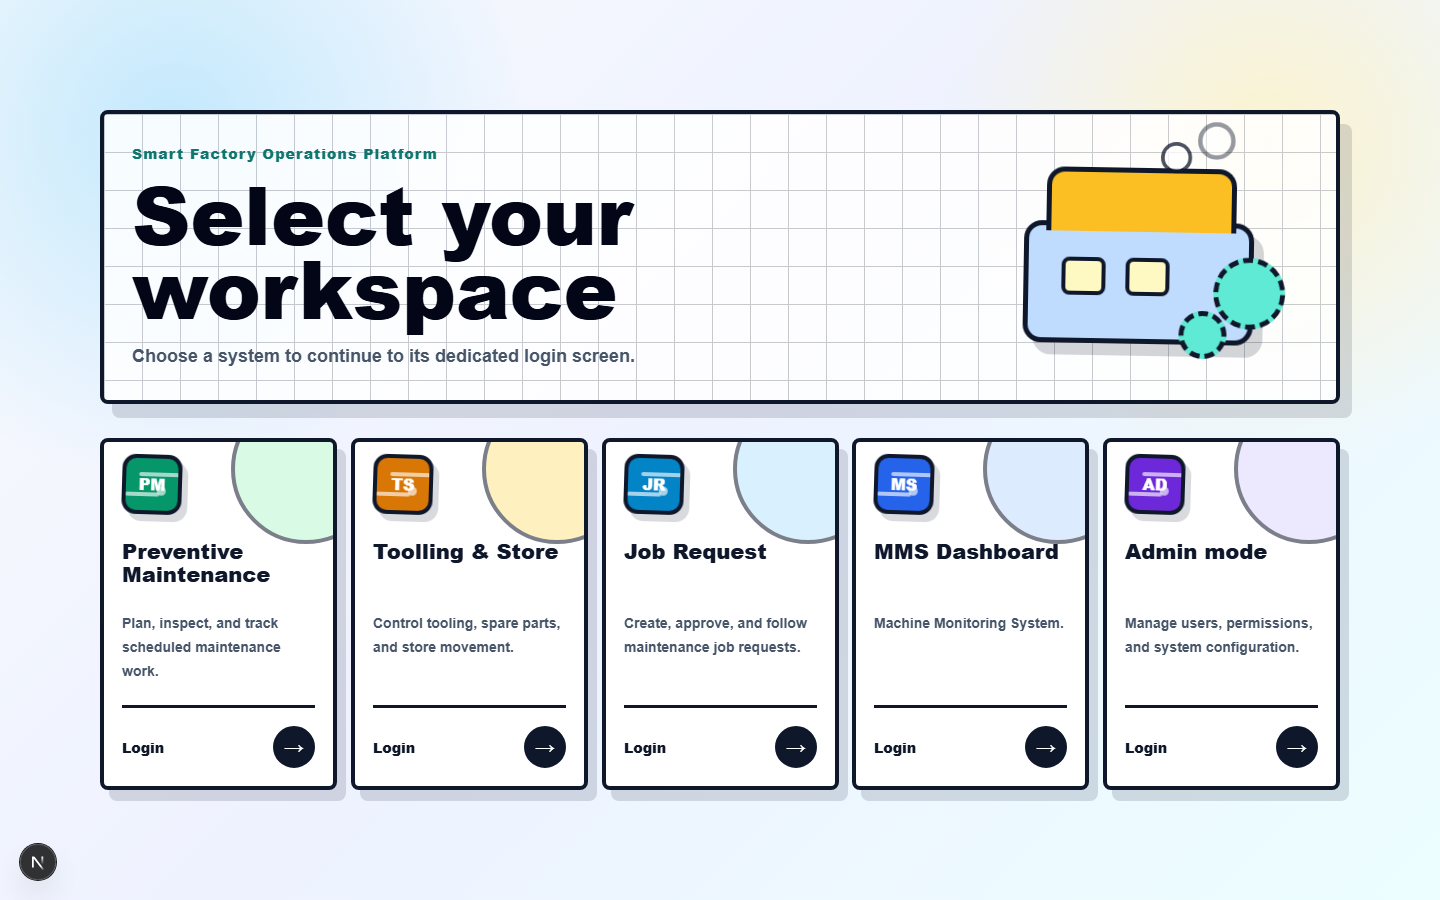
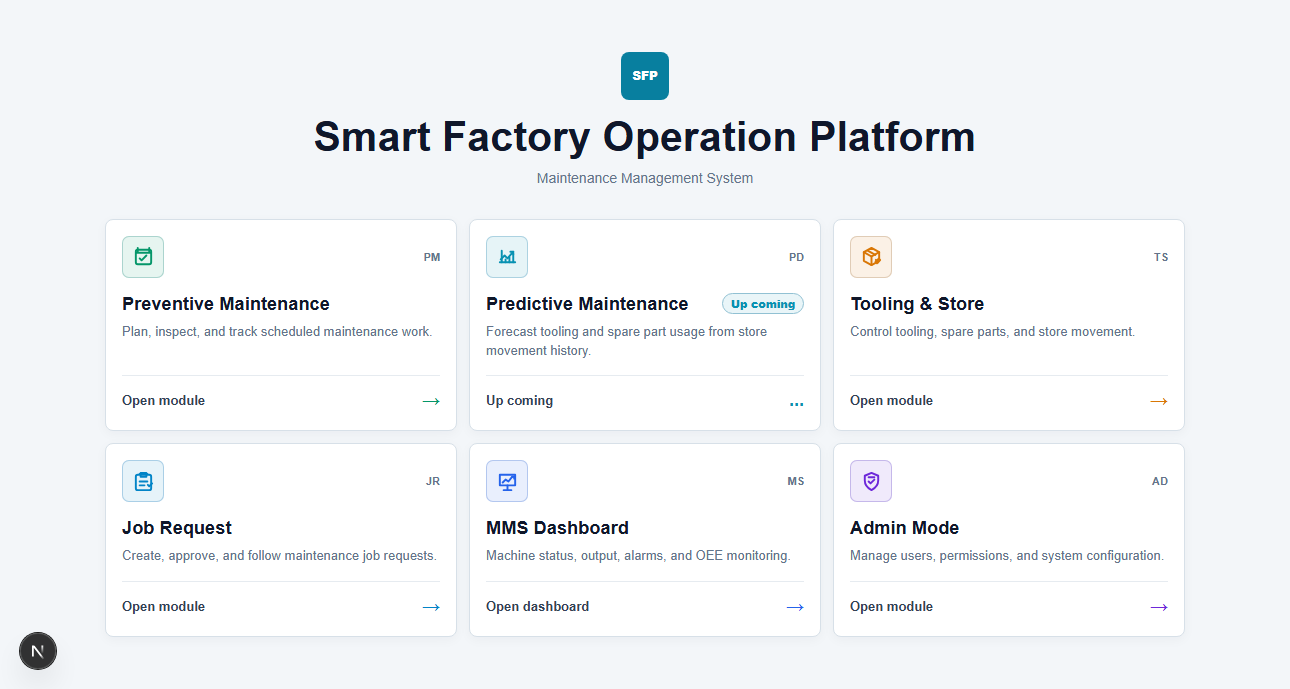
Update smart factory operation platform benefits

Changed region(s): [[0.0, 0.0, 0.9612, 0.9144], [0.0, 0.9144, 0.062, 0.9753]]

diff --git a/components/modals/PredictiveMaintenanceModal.tsx b/components/modals/PredictiveMaintenanceModal.tsx
@@ -117,8 +117,14 @@ const platformModules = [
     icon: ClipboardCheck,
   },
   {
+    title: "Predictive Maintenance",
+    detail: "Gateway entry for Predictive Tooling Usage, forecasting spare part demand from store history.",
+    tab: "Toolling & Store",
+    icon: Activity,
+  },
+  {
     title: "Toolling & Store",
-    detail: "Stock, tools, borrow/return, overdue, calibration, and movement history.",
+    detail: "Stock, tools, borrow/return, calibration, movement history, and Predictive Tooling Usage.",
     tab: "Toolling & Store",
     icon: Store,
   },
@@ -144,7 +150,7 @@ const overallImages = [
   {
     src: "/projects/smart-factory-operations/gateway-workspace-selector.png",
     title: "System Gateway",
-    caption: "Main entry point that separates PM, Toolling & Store, Job Request, MMS Dashboard, and Admin mode.",
+    caption: "Main entry point that separates PM, Predictive Maintenance, Toolling & Store, Job Request, MMS Dashboard, and Admin mode.",
   },
 ];
 
@@ -417,7 +423,7 @@ const mmsBenefits = [
   { label: "Before", value: "Manual checking/reporting: 1.5 min/machine = 150 min/day" },
   { label: "After", value: "Dashboard scan/filter/export: 0.5 min/machine = 50 min/day" },
   { label: "Saving", value: "1 min/machine x 100 machines = 100 min/day" },
-  { label: "Cost", value: "100 / 60 x 102.27 = 170 THB/day" },
+  { label: "Cost", value: "100 / 60 x 102.27 = 170.45 THB/day" },
   { label: "Month / Year", value: "3,750 THB/month | 45,000 THB/year" },
 ];
 
@@ -509,7 +515,7 @@ const toolingBenefits = [
   { label: "Before", value: "Manual stock check: 10 min/item" },
   { label: "After", value: "System lookup and transaction view: 2 min/item" },
   { label: "Saving", value: "8 items/day x 8 min saved = 64 min/day" },
-  { label: "Cost", value: "64 / 60 x 102.27 = 109 THB/day" },
+  { label: "Cost", value: "64 / 60 x 102.27 = 109.09 THB/day" },
   { label: "Month / Year", value: "2,400 THB/month | 28,800 THB/year" },
 ];
 
@@ -522,9 +528,37 @@ const toolingFeatureFlow = [
   { label: "Report / Movement View", icon: BarChart3 },
 ];
 
+const predictiveToolingFlow = [
+  { label: "Stock Balance", icon: Store },
+  { label: "Stock Out / PM Part Usage", icon: FileSpreadsheet },
+  { label: "Upcoming PM Demand", icon: CalendarDays },
+  { label: "Usage Forecast", icon: Activity },
+  { label: "Reorder Suggestion", icon: BarChart3 },
+];
+
+const predictiveToolingCards = [
+  {
+    label: "Data Sources",
+    value: "Stock balance, stock-out history, PM part usage, and upcoming PM plans",
+  },
+  {
+    label: "Shortage Risk",
+    value: "Flags high or critical items before Maintenance waits for missing parts",
+  },
+  {
+    label: "Reorder Timing",
+    value: "Shows stockout ETA, reorder ETA, and lead-time urgency",
+  },
+  {
+    label: "Suggested Buy Qty",
+    value: "Calculates order quantity from current stock, target stock, and forecast demand",
+  },
+];
+
 const toolingConnectionFlow = [
   { label: "Admin Master Data", icon: Settings },
   { label: "Tooling Stock", icon: Store },
+  { label: "Predictive Tooling Usage", icon: Activity },
   { label: "Job Request Repair Need", icon: Wrench },
   { label: "PM Tool / Spare Part Check", icon: ClipboardCheck },
   { label: "History and Reports", icon: Clock },
@@ -608,8 +642,8 @@ const pmBenefits = [
   { label: "Before", value: "35 min/PM record for checklist, manual record, history lookup, and report prep" },
   { label: "After", value: "25 min/PM record with digital checklist and searchable history" },
   { label: "Saving", value: "7.5 records/week x 10 min saved / 5 days = 15 min/day" },
-  { label: "Cost", value: "15 / 60 x 102.27 = 26 THB/day" },
-  { label: "Month / Year", value: "563 THB/month | 6,750 THB/year" },
+  { label: "Cost", value: "15 / 60 x 102.27 = 25.57 THB/day" },
+  { label: "Month / Year", value: "562.50 THB/month | 6,750 THB/year" },
 ];
 
 const pmCapabilityItems = [
@@ -717,8 +751,8 @@ const jobBenefits = [
   { label: "History lookup", value: "5 cases/day x 17 min saved = 85 min/day" },
   { label: "Confirm / check", value: "75 cases/day x 40% x 8 min saved = 240 min/day" },
   { label: "Total", value: "900 + 85 + 240 = 1,225 min/day" },
-  { label: "Cost", value: "1,225 / 60 x 102.27 = 2,088 THB/day" },
-  { label: "Month / Year", value: "45,938 THB/month | 551,250 THB/year" },
+  { label: "Cost", value: "1,225 / 60 x 102.27 = 2,088.07 THB/day" },
+  { label: "Month / Year", value: "45,937.50 THB/month | 551,250 THB/year" },
 ];
 
 const jobSoundItems = [
@@ -1478,7 +1512,7 @@ export default function PredictiveMaintenanceModal({ project, onClose }: Props) 
                     Highlight Project
                   </p>
                   <h2 className="mt-2 max-w-xl text-2xl font-black leading-tight text-white sm:text-4xl lg:text-5xl">
-                    Smart Factory Operations Platform
+                    Smart Factory Operation Platform
                   </h2>
                   <p className="mt-3 max-w-xl text-xs font-bold leading-relaxed text-slate-300 sm:text-sm">
                     Connects machine data, repair workflow, QC confirmation, PM, tooling, and admin master data into
@@ -1551,11 +1585,11 @@ export default function PredictiveMaintenanceModal({ project, onClose }: Props) 
                       <div>
                         <p className="mb-3 text-xs font-black uppercase tracking-[0.18em] text-cyan-300">Over All</p>
                         <h3 className="text-3xl font-black leading-tight">
-                          Smart Factory Operations Platform
+                          Smart Factory Operation Platform
                         </h3>
                         <p className="mt-4 text-sm leading-relaxed text-slate-300">
-                          A real factory operations system that connects machine data, repair workflow, QC confirmation,
-                          preventive maintenance, tooling inventory, and admin master data into one traceable real-time
+                          A real maintenance management system that connects machine data, repair workflow, QC confirmation,
+                          preventive maintenance, predictive tooling usage, tooling inventory, and admin master data into one traceable real-time
                           platform for a 100-machine operation scope. Machine-side data, shared status, shared history,
                           MSSQL Server, backend APIs, and Socket.IO updates help teams work from the same source of truth.
                         </p>
@@ -1701,6 +1735,39 @@ export default function PredictiveMaintenanceModal({ project, onClose }: Props) 
                     </div>
                   </section>
 
+                  <section className="rounded-2xl border border-cyan-200 bg-white p-5 shadow-sm dark:border-cyan-900/50 dark:bg-slate-900">
+                    <div className="grid gap-5 lg:grid-cols-[0.85fr_1.15fr] lg:items-start">
+                      <div>
+                        <p className="text-xs font-black uppercase tracking-[0.18em] text-cyan-500">
+                          Tooling Usage Forecast
+                        </p>
+                        <h3 className="mt-1 text-lg font-black text-slate-950 dark:text-white">
+                          Predictive Tooling Usage inside Toolling & Store
+                        </h3>
+                        <p className="mt-3 text-sm font-semibold leading-relaxed text-slate-700 dark:text-slate-300">
+                          Toolling & Store also uses stock balance, stock-out history, PM part usage, and upcoming PM
+                          plans to forecast shortage risk, reorder timing, 30-day issue quantity, and suggested buy
+                          quantity before Maintenance waits for missing parts.
+                        </p>
+                      </div>
+                      <div className="grid gap-3 sm:grid-cols-2">
+                        {predictiveToolingCards.map((item) => (
+                          <div
+                            key={item.label}
+                            className="rounded-xl border border-cyan-100 bg-cyan-50 p-4 dark:border-cyan-900/50 dark:bg-cyan-950/20"
+                          >
+                            <p className="text-[10px] font-black uppercase tracking-[0.14em] text-cyan-700 dark:text-cyan-300">
+                              {item.label}
+                            </p>
+                            <p className="mt-2 text-sm font-black leading-relaxed text-slate-950 dark:text-white">
+                              {item.value}
+                            </p>
+                          </div>
+                        ))}
+                      </div>
+                    </div>
+                  </section>
+
                   <section className="rounded-2xl border border-slate-200 bg-white p-5 shadow-sm dark:border-slate-800 dark:bg-slate-900">
                     <div className="mb-5 flex flex-col justify-between gap-3 sm:flex-row sm:items-end">
                       <div>
@@ -1777,7 +1844,7 @@ export default function PredictiveMaintenanceModal({ project, onClose }: Props) 
                       <div className="rounded-xl bg-slate-50 p-4 dark:bg-slate-950/50">
                         <p className="text-xs font-black uppercase text-slate-500">Cost saving</p>
                         <p className="mt-1 text-sm font-black text-slate-950 dark:text-white">
-                          18,000 / 22 / 8 = 102.27 THB/hr; 23.4 x 102.27 = 2,393 THB/day
+                          18,000 / 22 / 8 = 102.27 THB/hr; 23.4 x 102.27 = 2,393.18 THB/day
                         </p>
                       </div>
                       <div className="rounded-xl bg-slate-50 p-4 dark:bg-slate-950/50">
@@ -2442,6 +2509,53 @@ export default function PredictiveMaintenanceModal({ project, onClose }: Props) 
                   <AnimatedHorizontalFlow title="Toolling & Store Workflow" steps={toolingFeatureFlow} />
                   <AnimatedHorizontalFlow title="Tooling Connection With Platform Modules" steps={toolingConnectionFlow} />
 
+                  <section className="rounded-2xl border border-cyan-200 bg-white p-5 shadow-sm dark:border-cyan-900/50 dark:bg-slate-900">
+                    <div className="grid gap-5 lg:grid-cols-[0.9fr_1.1fr] lg:items-start">
+                      <div>
+                        <p className="text-xs font-black uppercase tracking-[0.18em] text-cyan-500">
+                          Predictive Tooling Usage
+                        </p>
+                        <h3 className="mt-1 text-2xl font-black text-slate-950 dark:text-white">
+                          Forecast spare part usage before stock becomes a repair blocker
+                        </h3>
+                        <p className="mt-3 text-sm font-semibold leading-relaxed text-slate-700 dark:text-slate-300">
+                          This capability extends Toolling & Store from record keeping into planning. The dashboard
+                          highlights shortage risk, reorder-soon items, 30-day forecast quantity, confidence level, and
+                          suggested buy quantity. The analysis view explains the result with actual usage, regression
+                          trend, forecast stock line, calculation cards, and reason text.
+                        </p>
+                      </div>
+                      <div className="grid gap-3 sm:grid-cols-2">
+                        {predictiveToolingCards.map((item) => (
+                          <div
+                            key={item.label}
+                            className="rounded-xl border border-cyan-100 bg-cyan-50 p-4 dark:border-cyan-900/50 dark:bg-cyan-950/20"
+                          >
+                            <p className="text-[10px] font-black uppercase tracking-[0.14em] text-cyan-700 dark:text-cyan-300">
+                              {item.label}
+                            </p>
+                            <p className="mt-2 text-sm font-black leading-relaxed text-slate-950 dark:text-white">
+                              {item.value}
+                            </p>
+                          </div>
+                        ))}
+                      </div>
+                    </div>
+                    <div className="mt-5">
+                      <AnimatedHorizontalFlow title="Predictive Tooling Usage Flow" steps={predictiveToolingFlow} />
+                    </div>
+                    <div className="mt-4 rounded-xl border border-dashed border-cyan-200 bg-cyan-50 p-4 dark:border-cyan-900/50 dark:bg-cyan-950/20">
+                      <p className="text-xs font-black uppercase tracking-[0.16em] text-cyan-700 dark:text-cyan-300">
+                        View Analysis
+                      </p>
+                      <p className="mt-2 text-sm font-semibold leading-relaxed text-slate-700 dark:text-slate-300">
+                        View Analysis opens the item-level calculation: current stock, minimum stock, 7-day and 30-day
+                        forecast, confidence, actual usage bars, regression line, forecast stock projection, stockout
+                        ETA, reorder ETA, and calculation reasons.
+                      </p>
+                    </div>
+                  </section>
+
                   <section className="rounded-2xl border border-slate-200 bg-white p-5 shadow-sm dark:border-slate-800 dark:bg-slate-900">
                     <div className="flex items-start gap-3">
                       <div className="flex h-11 w-11 shrink-0 items-center justify-center rounded-2xl bg-amber-100 text-amber-700 dark:bg-amber-900/30 dark:text-amber-300">
@@ -2739,7 +2853,7 @@ export default function PredictiveMaintenanceModal({ project, onClose }: Props) 
                           Summary
                         </p>
                         <h3 className="text-3xl font-black leading-tight">
-                          Smart Factory Operations Platform Summary
+                          Smart Factory Operation Platform Summary
                         </h3>
                         <p className="mt-4 text-sm font-semibold leading-relaxed text-slate-300">
                           A connected factory operations platform that brings machine data, MMS monitoring, Job

diff --git a/lib/data.ts b/lib/data.ts
@@ -967,7 +967,7 @@ export const projects: Project[] = [
   },
   {
     slug: "predictive-maintenance",
-    title: "Smart Factory Operations Platform",
+    title: "Smart Factory Operation Platform",
     description: "Smart factory operations case study draft. Modal content is being rewritten section by section from verified maintenance_project evidence.",
     tags: ["Next.js", "Node.js", "SQL Server", "Socket.IO", "IoT", "Arduino", "MMS", "Maintenance", "Tooling"],
     image: "/projects/smart-factory-operations/cover.png",
